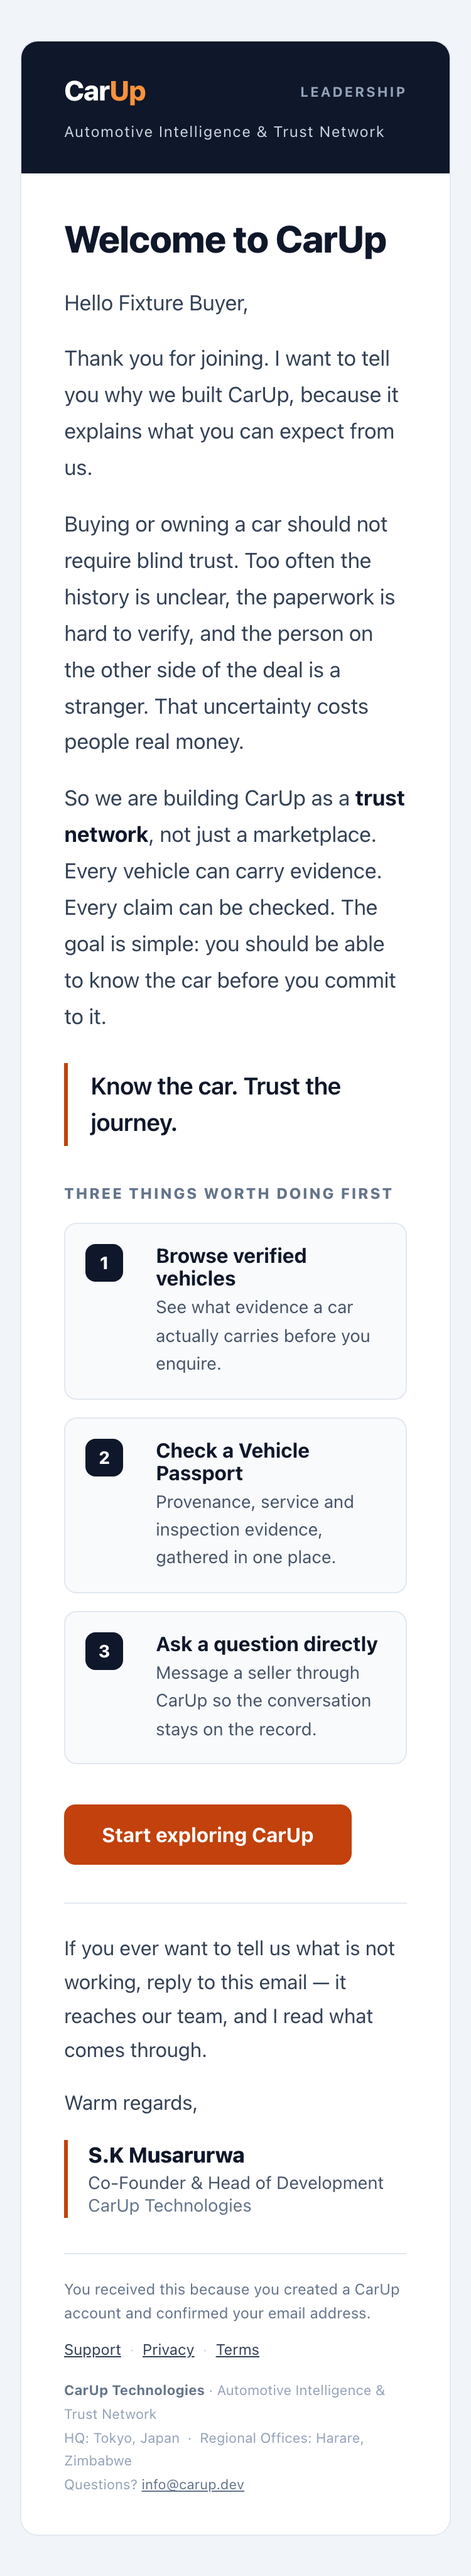
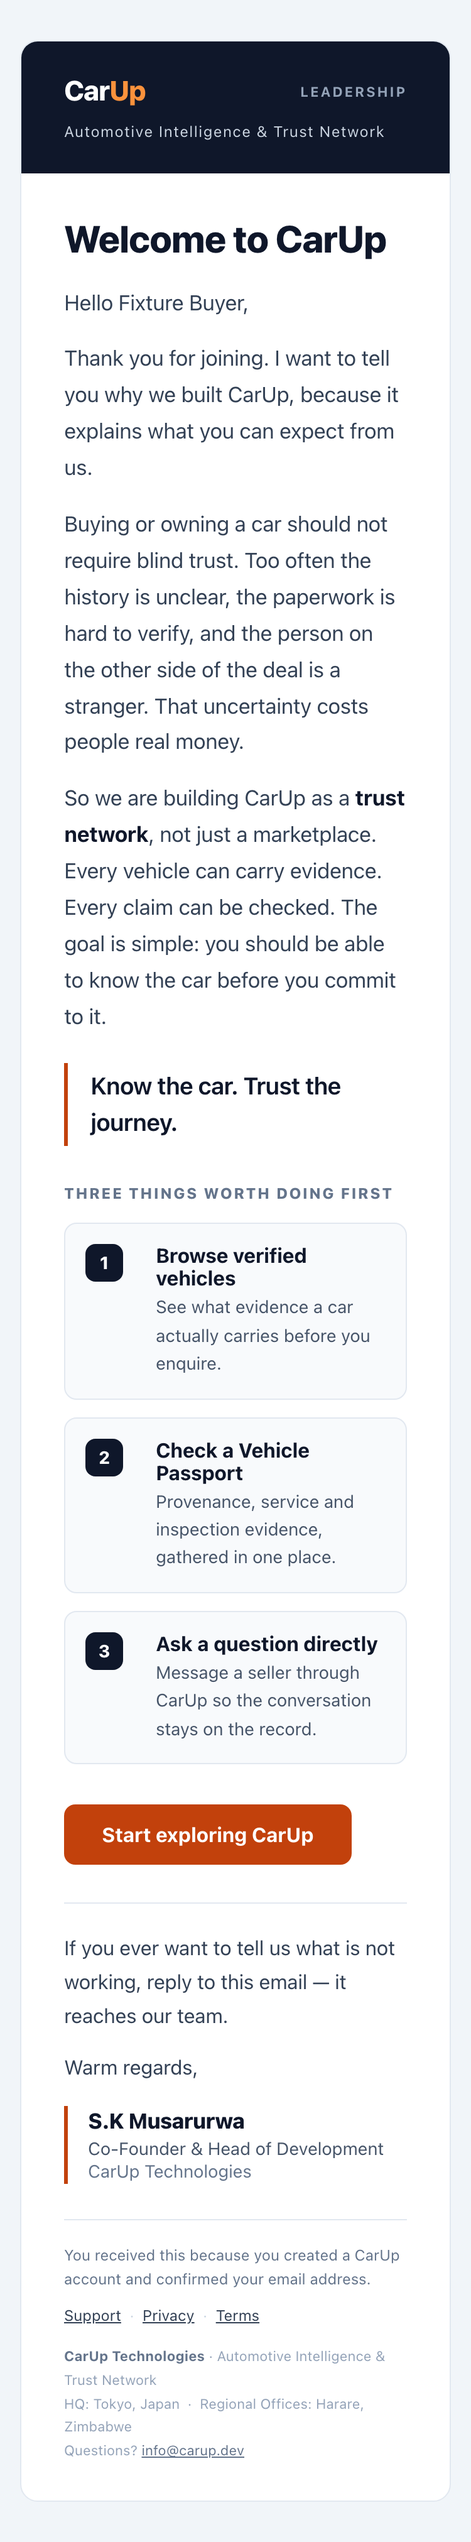
docs(email-experience): apply owner R1 copy decision
Replaces the leadership sign-off line so it no longer implies S.K Musarurwa
personally reads every response. Screenshots re-rendered.

diff --git a/docs/communications/email-previews/r1-leadership-welcome.html b/docs/communications/email-previews/r1-leadership-welcome.html
@@ -92,7 +92,7 @@
   <!-- signature: text only, no headshot, no handwriting asset -->
   <tr><td style="padding:30px 34px 0 34px;font-family:-apple-system,BlinkMacSystemFont,'Segoe UI',Roboto,Helvetica,Arial,sans-serif;">
     <div style="height:1px;background:#E2E8F0;margin:0 0 22px 0;"></div>
-    <p style="margin:0 0 14px 0;font-size:16px;line-height:1.7;color:#334155;">If you ever want to tell us what is not working, reply to this email &mdash; it reaches our team, and I read what comes through.</p>
+    <p style="margin:0 0 14px 0;font-size:16px;line-height:1.7;color:#334155;">If you ever want to tell us what is not working, reply to this email &mdash; it reaches our team.</p>
     <p style="margin:0 0 16px 0;font-size:16px;line-height:1.7;color:#334155;">Warm regards,</p>
     <table role="presentation" cellpadding="0" cellspacing="0" border="0"><tr>
       <td style="border-left:3px solid #C2410C;padding:2px 0 2px 16px;">
